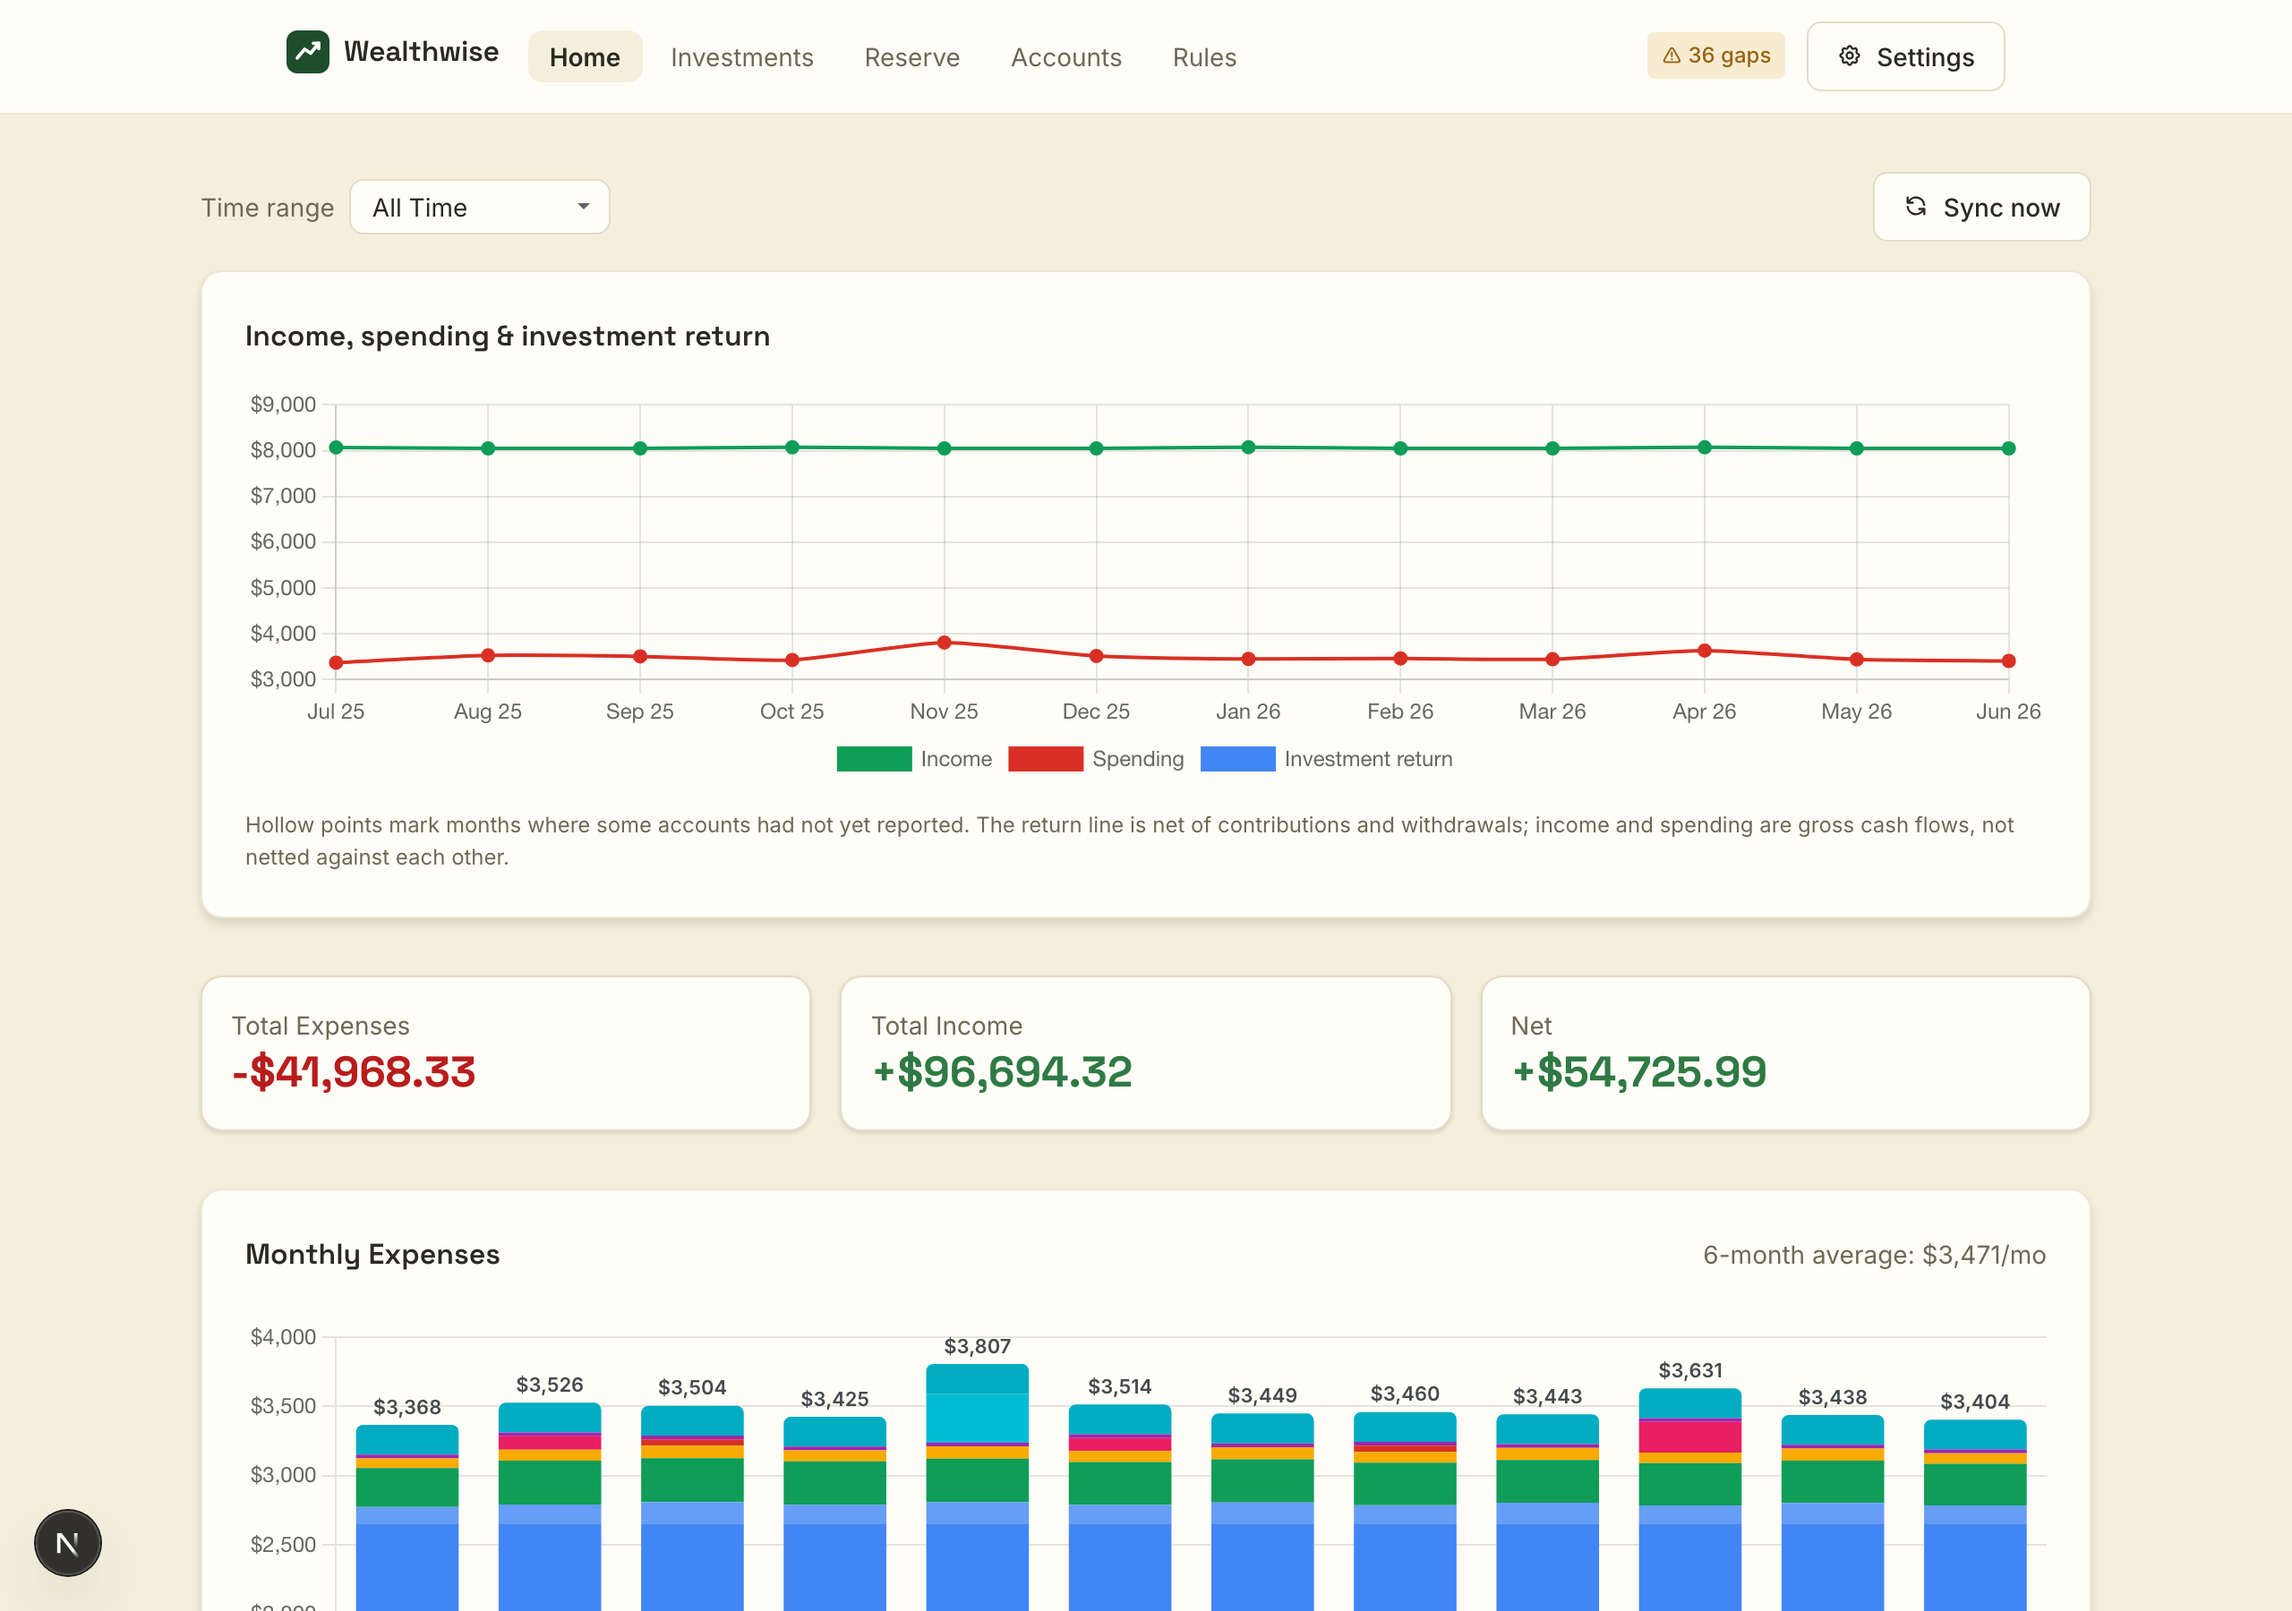
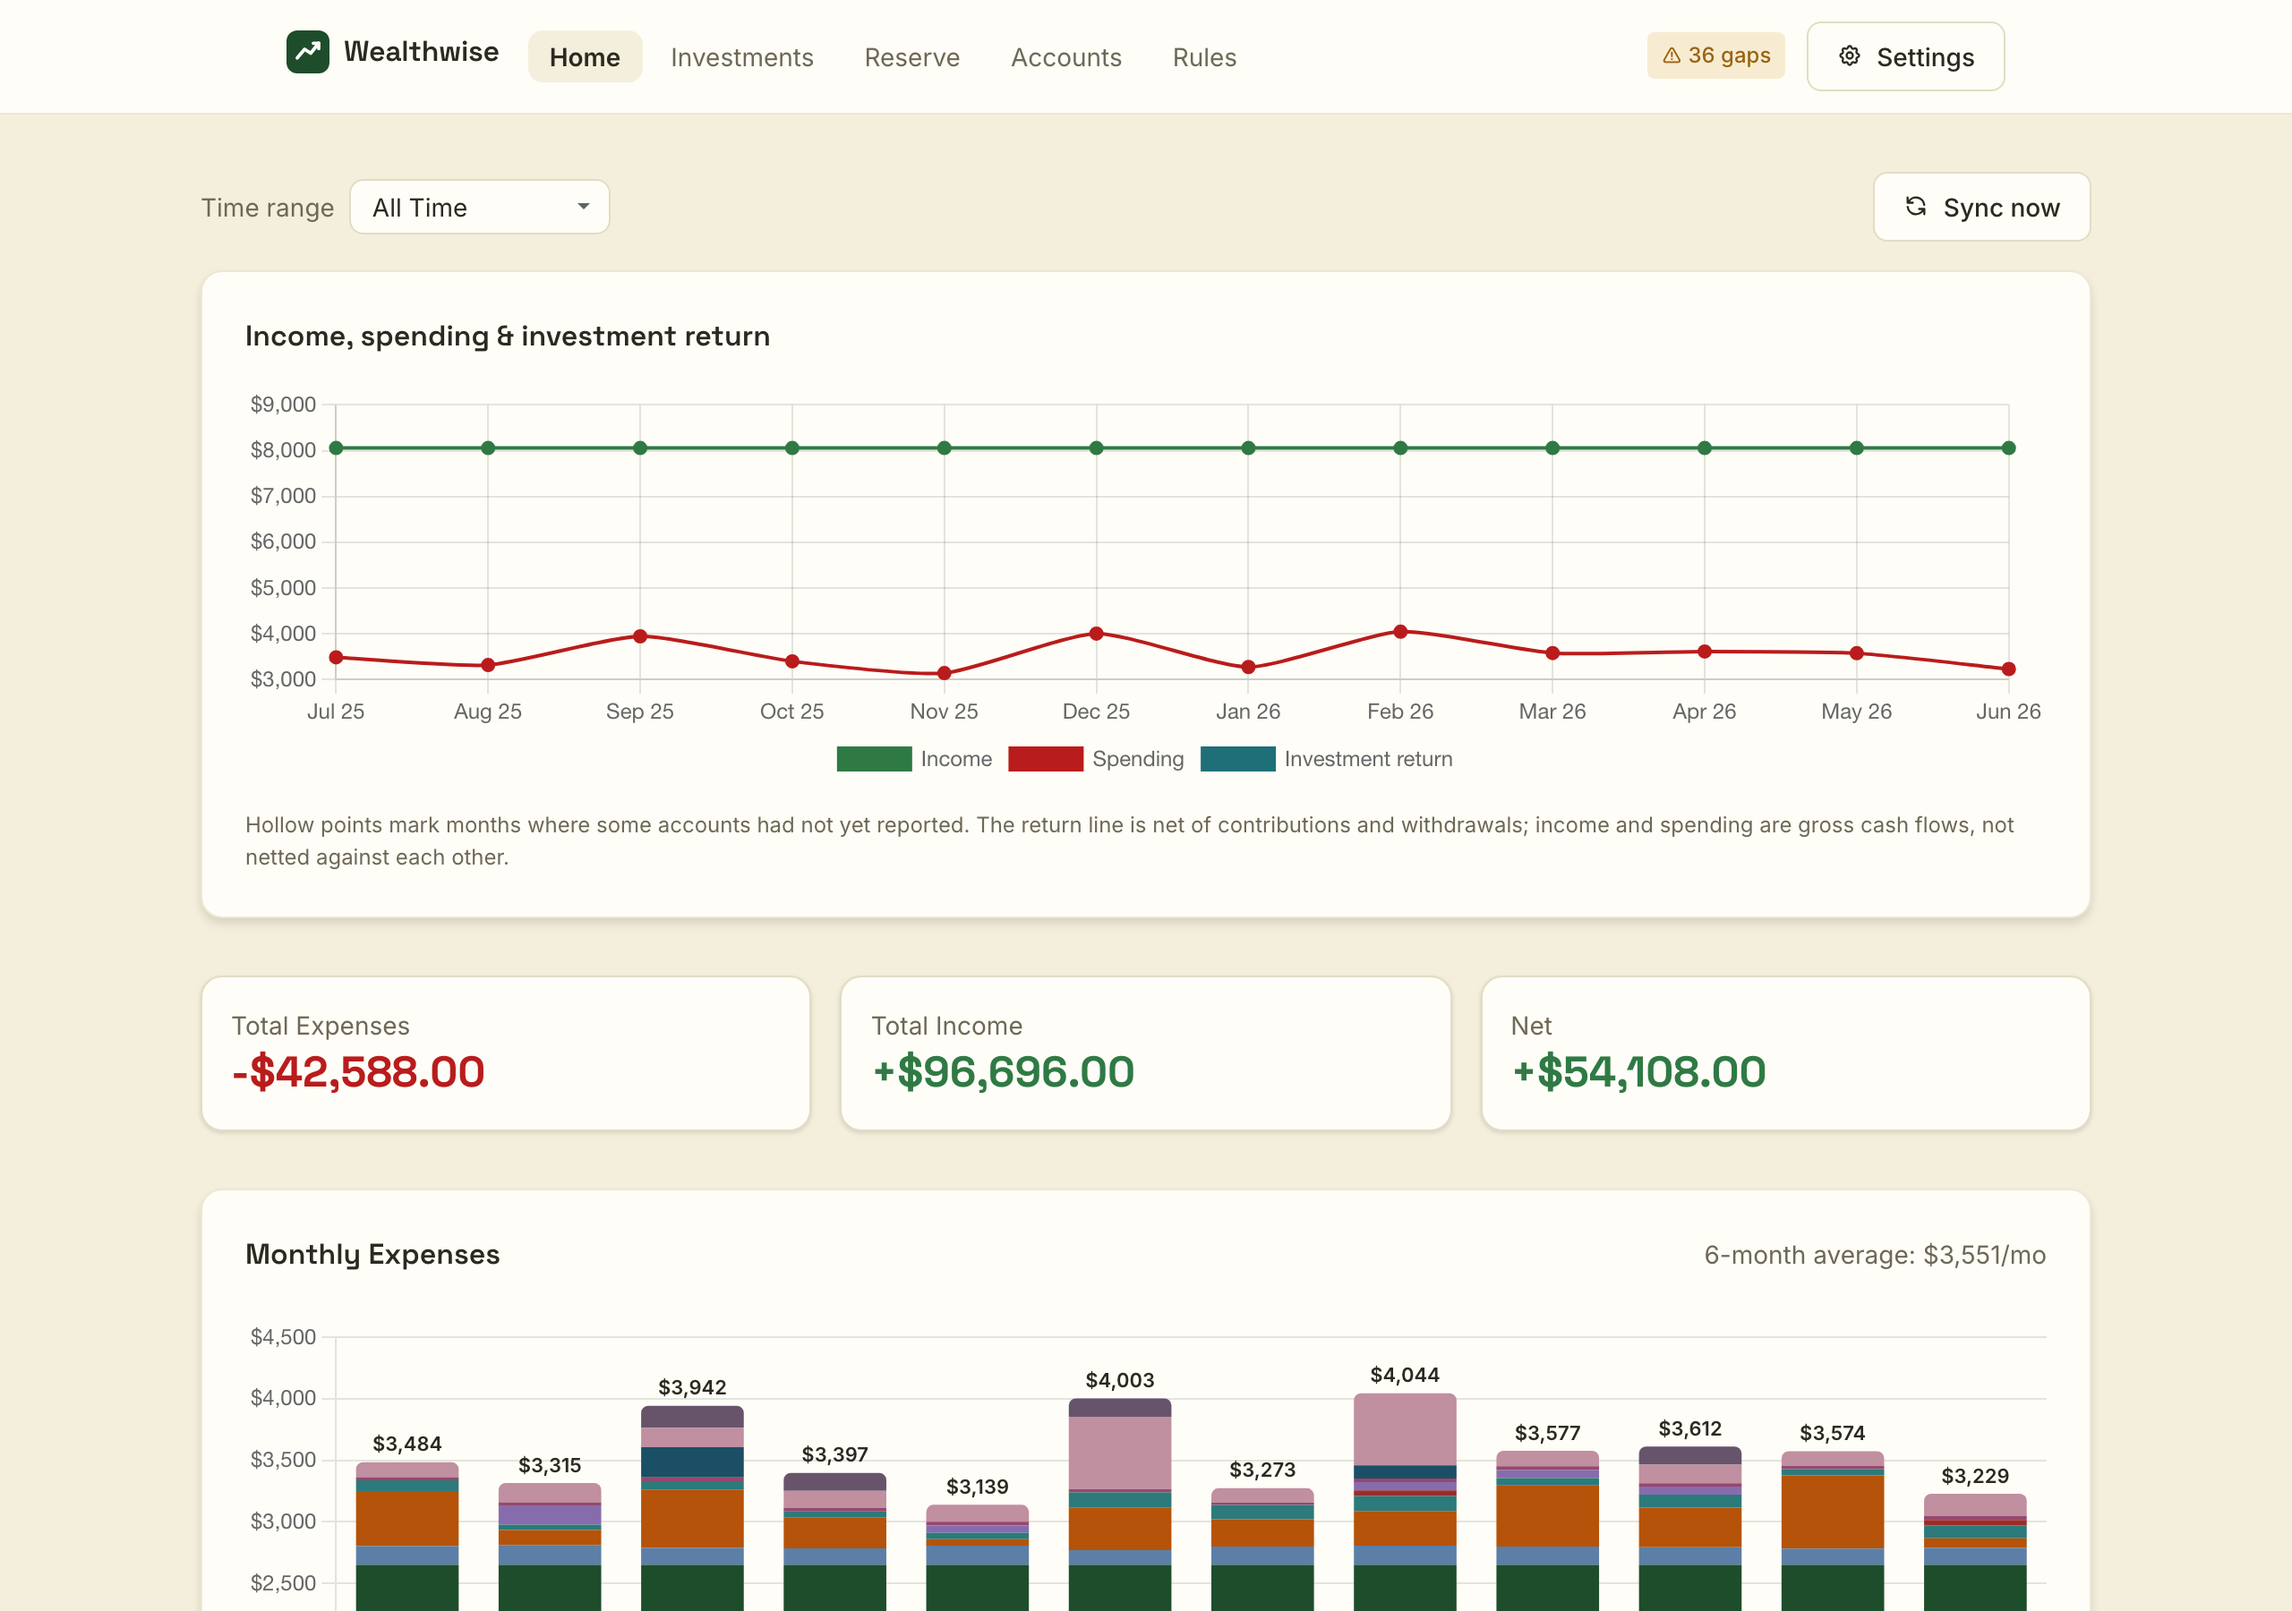
Recolor home-page charts to the Heirloom palette
The home page and the investments page looked like two different apps.
Both already shared the same design tokens for chrome, so the divergence
was entirely in the colors that reach a canvas: the investments charts
derive from CHART_PALETTE (pine, clay, teal, wine, sage, dusty blue),
while the home page pulled Google Material hues from taxonomy.json plus
three hardcoded brand hexes in FinancialHealthChart.

Chart.js draws to a canvas and cannot read CSS variables, so chartConfig
is where chart colors have to live. Extend it with canvas mirrors of the
semantic tokens (success/danger/info/ink) rather than leaving each chart
to invent its own, and point the drawn-on total labels at the ink color
instead of a hardcoded Google grey.

The 16 category colors are picked for separation, not just family: naive
"muted earth tones" collided badly (worst pair dE 11.2, and adjacent
bands in the stacked bars were nearly indistinguishable at dE 12.6).
Tuning lightness within each hue cluster lifts the worst pair to dE 22.8
and the worst stack-adjacent pair to 24.4. Fitting 16 distinguishable
colors into a deliberately low-chroma palette is a real constraint —
these are as separated as the family allows, and the charts lean on the
legend, labels, and isolate-on-click for the rest.

Category colors stay in taxonomy.json because they belong to the
category, not the chart; they feed the table and import swatches too.
Those swatches' '#ccc' fallbacks become a border token, since they are
[…]

diff --git a/app/src/lib/chartConfig.ts b/app/src/lib/chartConfig.ts
@@ -28,12 +28,40 @@ ChartJS.register(
 
 // Categorical series colors, tuned to sit alongside the Heirloom palette
 // (pine, clay/gold, teal, wine, sage, dusty blue). Chart.js draws to a canvas
-// and can't read CSS variables, so these are the one place chart colors live —
-// update here when the theme changes.
+// and can't read CSS variables, so this module is where chart colors live —
+// update here when the theme changes. The one exception is per-category
+// spending colors, which belong to the category and so live in
+// data/taxonomy.json; those are drawn from the same Heirloom family.
 export const CHART_PALETTE = ['#1e4d2b', '#b45309', '#2c7a7b', '#9b2c2c', '#6b8e4e', '#5b7fa6'];
 
-// Calm single-series trend color (e.g. cash reserve).
+// Calm single-series trend color (e.g. cash reserve), also the fallback for a
+// series with no color of its own.
 export const CHART_NEUTRAL = '#8a8266';
+
+/* Canvas mirrors of the semantic theme tokens, for the charts that encode
+   meaning rather than category: money up, money down, a supplementary
+   reference line, and the ink used for baselines and drawn-on labels. */
+export const CHART_SUCCESS = '#2f7a44'; // matches --p-success
+export const CHART_DANGER = '#b91c1c';  // matches --p-danger
+export const CHART_INFO = '#1f6f78';    // matches --p-info
+export const CHART_INK = '#2a2a20';     // matches --p-ink
+
+/**
+ * The current text color, for labels a plugin draws onto the canvas.
+ *
+ * Series colors are fixed hexes (above) because a data series must mean the
+ * same thing in either scheme. Drawn-on *text* is different: it is chrome, and
+ * chrome that stays ink-dark disappears against the dark theme's ground. This
+ * is safe to resolve here because plugins draw on every frame, so the value is
+ * re-read after a scheme change; CHART_INK is the fallback for SSR and for the
+ * canvas-in-a-detached-node case, where there is no computed style to read.
+ */
+export function chartInk(canvas?: HTMLCanvasElement | null): string {
+  if (typeof window === 'undefined') return CHART_INK;
+  const el = canvas ?? document.body;
+  const value = getComputedStyle(el).getPropertyValue('--color-text-base-default').trim();
+  return value || CHART_INK;
+}
 
 // Common chart options
 export const chartDefaults = {

diff --git a/app/src/app/components/charts/CategoryTotalsChart.tsx b/app/src/app/components/charts/CategoryTotalsChart.tsx
@@ -4,7 +4,7 @@ import { useMemo } from 'react';
 import { Bar } from 'react-chartjs-2';
 import type { ChartOptions, Plugin, TooltipItem } from 'chart.js';
 import '@/lib/chartConfig';
-import { formatCurrency } from '@/lib/chartConfig';
+import { formatCurrency, chartInk, CHART_NEUTRAL } from '@/lib/chartConfig';
 import type { Transaction, Category } from '@/types';
 import { NON_SPENDING_CATEGORIES, expenseAmount, expenseCategoryId } from '@/lib/spending';
 
@@ -100,7 +100,7 @@ export default function CategoryTotalsChart({
     const datasets = Array.from(allSubcategories.entries()).map(
       ([key, { categoryId, subcategoryId, name }]) => {
         const category = categoryMap.get(categoryId);
-        const baseColor = category?.color || '#78909c';
+        const baseColor = category?.color || CHART_NEUTRAL;
 
         const catSubs = Object.keys(categoryTotals[categoryId].subcategories);
         const subIdx = catSubs.indexOf(key.split('/')[1]);
@@ -142,7 +142,7 @@ export default function CategoryTotalsChart({
         if (!xScale || !yScale) return;
 
         ctx.save();
-        ctx.fillStyle = 'rgba(60, 64, 67, 0.95)';
+        ctx.fillStyle = chartInk(chart.canvas);
         ctx.font = '600 11px Inter, system-ui, sans-serif';
         ctx.textAlign = 'left';
         ctx.textBaseline = 'middle';

diff --git a/app/src/app/components/charts/FinancialHealthChart.tsx b/app/src/app/components/charts/FinancialHealthChart.tsx
@@ -4,16 +4,23 @@ import { useEffect, useMemo, useState } from 'react';
 import { Line } from 'react-chartjs-2';
 import type { ChartOptions, ScriptableContext, TooltipItem } from 'chart.js';
 import '@/lib/chartConfig';
-import { formatCurrency, formatMonth, formatPercent } from '@/lib/chartConfig';
+import {
+  formatCurrency,
+  formatMonth,
+  formatPercent,
+  CHART_SUCCESS,
+  CHART_DANGER,
+  CHART_INFO,
+} from '@/lib/chartConfig';
 import { monthlyExpenseTotals, monthlyIncomeTotals } from '@/lib/spending';
 import type { DateRange, Transaction } from '@/types';
 
-// Palette convention shared with PortfolioTrendChart (see globals.css design
-// tokens): brand green for income, critical red for spending, info blue for
-// the investment return line.
-const INCOME_COLOR = '#0f9d58';
-const SPENDING_COLOR = '#d93025';
-const RETURN_COLOR = '#4285f4';
+// Palette convention shared with PortfolioTrendChart (see chartConfig.ts, which
+// mirrors the globals.css theme tokens onto the canvas): success green for
+// income, critical red for spending, info teal for the investment return line.
+const INCOME_COLOR = CHART_SUCCESS;
+const SPENDING_COLOR = CHART_DANGER;
+const RETURN_COLOR = CHART_INFO;
 
 interface GainPoint {
   month: string; // YYYY-MM

diff --git a/app/src/app/components/investments/PortfolioTrendChart.tsx b/app/src/app/components/investments/PortfolioTrendChart.tsx
@@ -4,7 +4,7 @@ import { useEffect, useMemo, useRef, useState } from 'react';
 import { Line } from 'react-chartjs-2';
 import type { ChartOptions } from 'chart.js';
 import '@/lib/chartConfig';
-import { formatCurrency, formatPercent, CHART_PALETTE } from '@/lib/chartConfig';
+import { formatCurrency, formatPercent, CHART_PALETTE, CHART_INK } from '@/lib/chartConfig';
 import type { AllocNode } from '@/lib/investments/allocation';
 import type { AllocationBasis } from '@/lib/investments/periods';
 import {
@@ -22,7 +22,7 @@ const LEVEL_COUNT = LEVEL_LABELS.length;
 // Baseline "total" line is pinned to the ink color; the category series use the
 // shared Heirloom chart palette (see chartConfig.ts) so charts read as part of
 // the same theme as the rest of the app.
-const TOTAL_COLOR = '#2a2a20'; // matches --p-ink
+const TOTAL_COLOR = CHART_INK;
 const PALETTE = CHART_PALETTE;
 
 const PERIOD_WORD: Record<AllocationBasis, string> = {

diff --git a/app/src/app/components/charts/MonthlyExpensesChart.tsx b/app/src/app/components/charts/MonthlyExpensesChart.tsx
@@ -4,7 +4,7 @@ import { useMemo } from 'react';
 import { Bar } from 'react-chartjs-2';
 import type { ChartOptions, Plugin } from 'chart.js';
 import '@/lib/chartConfig';
-import { formatCurrency, formatMonth } from '@/lib/chartConfig';
+import { formatCurrency, formatMonth, chartInk } from '@/lib/chartConfig';
 import type { Transaction, Category } from '@/types';
 import { NON_SPENDING_CATEGORIES, expenseAmount, expenseCategoryId } from '@/lib/spending';
 
@@ -79,7 +79,7 @@ export default function MonthlyExpensesChart({
         if (!yScale || !xScale) return;
 
         ctx.save();
-        ctx.fillStyle = 'rgba(60, 64, 67, 0.95)';
+        ctx.fillStyle = chartInk(chart.canvas);
         ctx.font = '600 11px Inter, system-ui, sans-serif';
         ctx.textAlign = 'center';
         ctx.textBaseline = 'bottom';

diff --git a/app/src/app/components/ImportPanel.tsx b/app/src/app/components/ImportPanel.tsx
@@ -199,7 +199,7 @@ export default function ImportPanel({ categories, onImported, children }: Import
                             className="origin-select w-full"
                             style={{
                               borderLeftWidth: '3px',
-                              borderLeftColor: cat?.color || '#ccc',
+                              borderLeftColor: cat?.color || 'var(--color-border-base-hover)',
                             }}
                           >
                             {categories.map((c) => (

diff --git a/app/src/app/components/RulePreviewModal.tsx b/app/src/app/components/RulePreviewModal.tsx
@@ -242,7 +242,7 @@ export default function RulePreviewModal({
             <select
               aria-label="Category"
               className="origin-select text-small"
-              style={{ borderLeftWidth: '3px', borderLeftColor: category?.color || '#ccc' }}
+              style={{ borderLeftWidth: '3px', borderLeftColor: category?.color || 'var(--color-border-base-hover)' }}
               value={catId}
               onChange={(e) => changeCategory(e.target.value)}
             >

diff --git a/app/src/app/components/TransactionsTable.tsx b/app/src/app/components/TransactionsTable.tsx
@@ -313,7 +313,7 @@ export default function TransactionsTable({
                     className="origin-select w-full"
                     style={{
                       borderLeftWidth: '3px',
-                      borderLeftColor: cat?.category.color || '#ccc',
+                      borderLeftColor: cat?.category.color || 'var(--color-border-base-hover)',
                     }}
                   >
                     {categories.map((c) => (
